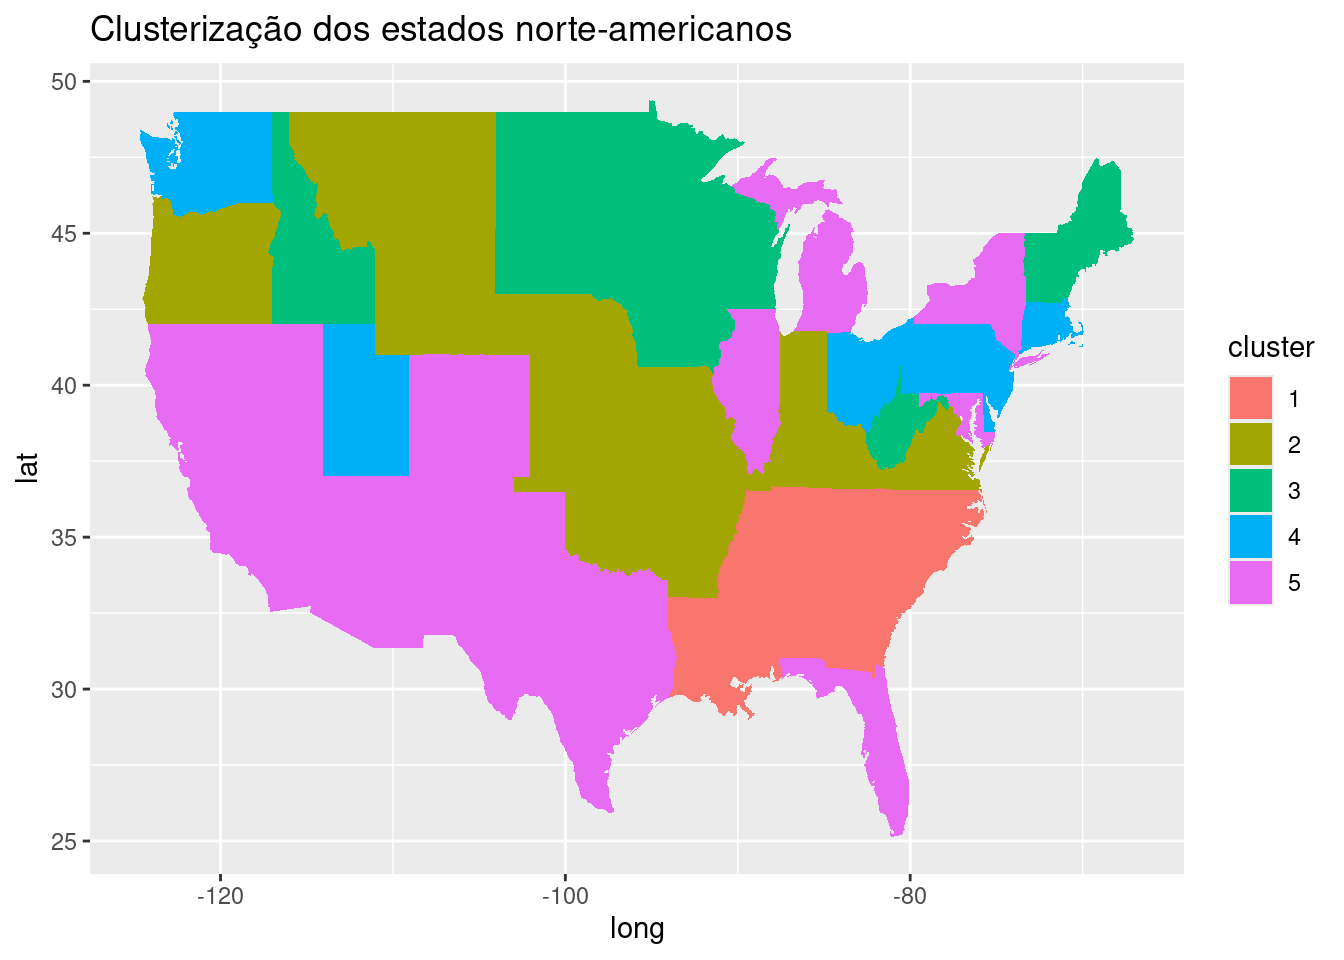
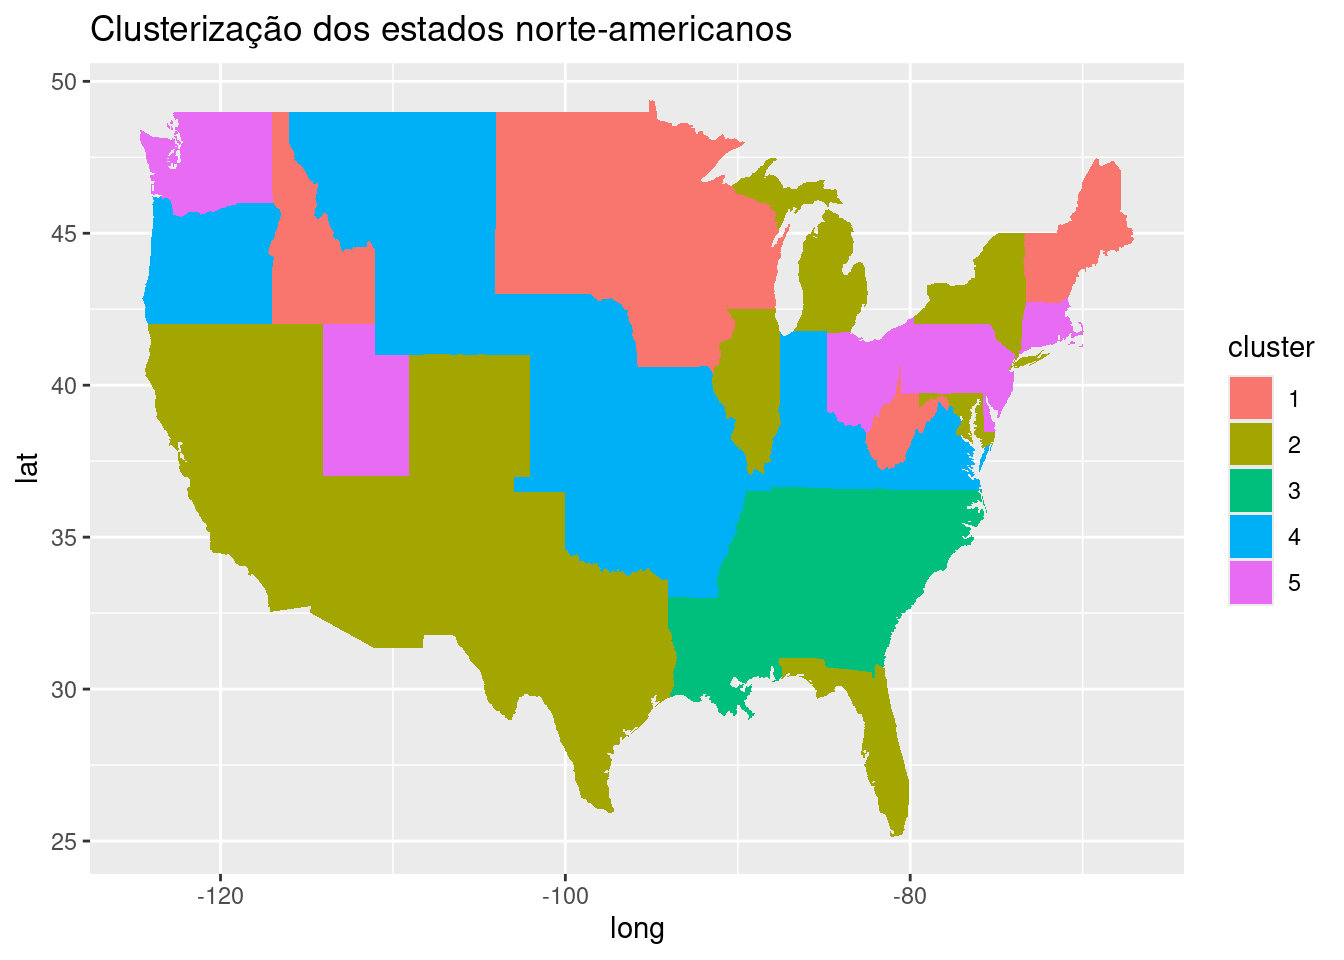
Built site for gh-pages

diff --git a/artigos_fila/clusterizacao/index.html b/artigos_fila/clusterizacao/index.html
@@ -266,25 +266,25 @@ pre > code.sourceCode > span > a:first-child::before { text-decoration: underlin
 <div class="sourceCode cell-code" id="cb3"><pre class="sourceCode r code-with-copy"><code class="sourceCode r"><span id="cb3-1"><a href="#cb3-1" aria-hidden="true" tabindex="-1"></a>clusterizacao<span class="sc">$</span>cluster</span></code><button title="Copy to Clipboard" class="code-copy-button"><i class="bi"></i></button></pre></div>
 <div class="cell-output cell-output-stdout">
 <pre><code>       Alabama         Alaska        Arizona       Arkansas     California 
-             1              5              5              2              5 
+             3              2              2              4              2 
       Colorado    Connecticut       Delaware        Florida        Georgia 
-             5              4              4              5              1 
+             2              5              5              2              3 
         Hawaii          Idaho       Illinois        Indiana           Iowa 
-             4              3              5              2              3 
+             5              1              2              4              1 
         Kansas       Kentucky      Louisiana          Maine       Maryland 
-             2              2              1              3              5 
+             4              4              3              1              2 
  Massachusetts       Michigan      Minnesota    Mississippi       Missouri 
-             4              5              3              1              2 
+             5              2              1              3              4 
        Montana       Nebraska         Nevada  New Hampshire     New Jersey 
-             2              2              5              3              4 
+             4              4              2              1              5 
     New Mexico       New York North Carolina   North Dakota           Ohio 
-             5              5              1              3              4 
+             2              2              3              1              5 
       Oklahoma         Oregon   Pennsylvania   Rhode Island South Carolina 
-             2              2              4              4              1 
+             4              4              5              5              3 
   South Dakota      Tennessee          Texas           Utah        Vermont 
-             3              1              5              4              3 
+             1              3              2              5              1 
       Virginia     Washington  West Virginia      Wisconsin        Wyoming 
-             2              4              3              3              2 </code></pre>
+             4              5              1              1              4 </code></pre>
 </div>
 </div>
 <p>Agora que conseguimos agrupar os estados, criaremos uma coluna em nosso <em>dataframe</em> chamada <em>cluster</em> contendo a classificação de cada observação. Também usaremos a função <em>as.factor()</em> para transformar o vetor em um fator, ou seja, em um dado categórico.</p>
@@ -301,31 +301,31 @@ pre > code.sourceCode > span > a:first-child::before { text-decoration: underlin
 <span id="cb6-6"><a href="#cb6-6" aria-hidden="true" tabindex="-1"></a></span>
 <span id="cb6-7"><a href="#cb6-7" aria-hidden="true" tabindex="-1"></a><span class="fu">rownames</span>(cluster1)</span></code><button title="Copy to Clipboard" class="code-copy-button"><i class="bi"></i></button></pre></div>
 <div class="cell-output cell-output-stdout">
-<pre><code>[1] "Alabama"        "Georgia"        "Louisiana"      "Mississippi"   
-[5] "North Carolina" "South Carolina" "Tennessee"     </code></pre>
-</div>
-<div class="sourceCode cell-code" id="cb8"><pre class="sourceCode r code-with-copy"><code class="sourceCode r"><span id="cb8-1"><a href="#cb8-1" aria-hidden="true" tabindex="-1"></a><span class="fu">rownames</span>(cluster2)</span></code><button title="Copy to Clipboard" class="code-copy-button"><i class="bi"></i></button></pre></div>
-<div class="cell-output cell-output-stdout">
-<pre><code> [1] "Arkansas" "Indiana"  "Kansas"   "Kentucky" "Missouri" "Montana" 
- [7] "Nebraska" "Oklahoma" "Oregon"   "Virginia" "Wyoming" </code></pre>
-</div>
-<div class="sourceCode cell-code" id="cb10"><pre class="sourceCode r code-with-copy"><code class="sourceCode r"><span id="cb10-1"><a href="#cb10-1" aria-hidden="true" tabindex="-1"></a><span class="fu">rownames</span>(cluster3)</span></code><button title="Copy to Clipboard" class="code-copy-button"><i class="bi"></i></button></pre></div>
-<div class="cell-output cell-output-stdout">
 <pre><code> [1] "Idaho"         "Iowa"          "Maine"         "Minnesota"    
  [5] "New Hampshire" "North Dakota"  "South Dakota"  "Vermont"      
  [9] "West Virginia" "Wisconsin"    </code></pre>
 </div>
-<div class="sourceCode cell-code" id="cb12"><pre class="sourceCode r code-with-copy"><code class="sourceCode r"><span id="cb12-1"><a href="#cb12-1" aria-hidden="true" tabindex="-1"></a><span class="fu">rownames</span>(cluster4)</span></code><button title="Copy to Clipboard" class="code-copy-button"><i class="bi"></i></button></pre></div>
-<div class="cell-output cell-output-stdout">
-<pre><code> [1] "Connecticut"   "Delaware"      "Hawaii"        "Massachusetts"
- [5] "New Jersey"    "Ohio"          "Pennsylvania"  "Rhode Island" 
- [9] "Utah"          "Washington"   </code></pre>
-</div>
-<div class="sourceCode cell-code" id="cb14"><pre class="sourceCode r code-with-copy"><code class="sourceCode r"><span id="cb14-1"><a href="#cb14-1" aria-hidden="true" tabindex="-1"></a><span class="fu">rownames</span>(cluster5)</span></code><button title="Copy to Clipboard" class="code-copy-button"><i class="bi"></i></button></pre></div>
+<div class="sourceCode cell-code" id="cb8"><pre class="sourceCode r code-with-copy"><code class="sourceCode r"><span id="cb8-1"><a href="#cb8-1" aria-hidden="true" tabindex="-1"></a><span class="fu">rownames</span>(cluster2)</span></code><button title="Copy to Clipboard" class="code-copy-button"><i class="bi"></i></button></pre></div>
 <div class="cell-output cell-output-stdout">
 <pre><code> [1] "Alaska"     "Arizona"    "California" "Colorado"   "Florida"   
  [6] "Illinois"   "Maryland"   "Michigan"   "Nevada"     "New Mexico"
 [11] "New York"   "Texas"     </code></pre>
+</div>
+<div class="sourceCode cell-code" id="cb10"><pre class="sourceCode r code-with-copy"><code class="sourceCode r"><span id="cb10-1"><a href="#cb10-1" aria-hidden="true" tabindex="-1"></a><span class="fu">rownames</span>(cluster3)</span></code><button title="Copy to Clipboard" class="code-copy-button"><i class="bi"></i></button></pre></div>
+<div class="cell-output cell-output-stdout">
+<pre><code>[1] "Alabama"        "Georgia"        "Louisiana"      "Mississippi"   
+[5] "North Carolina" "South Carolina" "Tennessee"     </code></pre>
+</div>
+<div class="sourceCode cell-code" id="cb12"><pre class="sourceCode r code-with-copy"><code class="sourceCode r"><span id="cb12-1"><a href="#cb12-1" aria-hidden="true" tabindex="-1"></a><span class="fu">rownames</span>(cluster4)</span></code><button title="Copy to Clipboard" class="code-copy-button"><i class="bi"></i></button></pre></div>
+<div class="cell-output cell-output-stdout">
+<pre><code> [1] "Arkansas" "Indiana"  "Kansas"   "Kentucky" "Missouri" "Montana" 
+ [7] "Nebraska" "Oklahoma" "Oregon"   "Virginia" "Wyoming" </code></pre>
+</div>
+<div class="sourceCode cell-code" id="cb14"><pre class="sourceCode r code-with-copy"><code class="sourceCode r"><span id="cb14-1"><a href="#cb14-1" aria-hidden="true" tabindex="-1"></a><span class="fu">rownames</span>(cluster5)</span></code><button title="Copy to Clipboard" class="code-copy-button"><i class="bi"></i></button></pre></div>
+<div class="cell-output cell-output-stdout">
+<pre><code> [1] "Connecticut"   "Delaware"      "Hawaii"        "Massachusetts"
+ [5] "New Jersey"    "Ohio"          "Pennsylvania"  "Rhode Island" 
+ [9] "Utah"          "Washington"   </code></pre>
 </div>
 </div>
 <p>Agora que sabemos a qual grupo pertence cada estado, podemos começar a pensar em alguns questionamentos interessantes. Além das taxas de prisões, o que será que esses estados agrupados no mesmo <em>cluster</em> possuem em comum? Será que são estados geograficamente próximos uns dos outros? Será que dividem semelhanças em aspectos socioeconômicos ou no contexto histórico?</p>

diff --git a/artigos.html b/artigos.html
@@ -224,7 +224,7 @@ window.Quarto = {
 
 <div class="quarto-listing quarto-listing-container-default" id="listing-listing">
 <div class="list quarto-listing-default">
-<div class="quarto-post image-right" data-index="0" data-categories="segurança" data-listing-date-sort="1722816000000" data-listing-file-modified-sort="1730699084938" data-listing-date-modified-sort="NaN" data-listing-reading-time-sort="4" data-listing-word-count-sort="612">
+<div class="quarto-post image-right" data-index="0" data-categories="segurança" data-listing-date-sort="1722816000000" data-listing-file-modified-sort="1730700279496" data-listing-date-modified-sort="NaN" data-listing-reading-time-sort="4" data-listing-word-count-sort="612">
 <div class="thumbnail">
 <p><a href="./artigos/roubos-uberlandia/index.html" class="no-external"></a></p><a href="./artigos/roubos-uberlandia/index.html" class="no-external">
 <p><img loading="lazy" src="./artigos/roubos-uberlandia/capa.jpg" class="thumbnail-image"></p>
@@ -257,7 +257,7 @@ Bruno de Souza Melo
 </a>
 </div>
 </div>
-<div class="quarto-post image-right" data-index="1" data-categories="modelos,knn" data-listing-date-sort="1721347200000" data-listing-file-modified-sort="1730699084938" data-listing-date-modified-sort="NaN" data-listing-reading-time-sort="4" data-listing-word-count-sort="730">
+<div class="quarto-post image-right" data-index="1" data-categories="modelos,knn" data-listing-date-sort="1721347200000" data-listing-file-modified-sort="1730700279496" data-listing-date-modified-sort="NaN" data-listing-reading-time-sort="4" data-listing-word-count-sort="730">
 <div class="thumbnail">
 <p><a href="./artigos/knn/index.html" class="no-external"></a></p><a href="./artigos/knn/index.html" class="no-external">
 <p><img loading="lazy" src="./artigos/knn/capa.jpeg" class="thumbnail-image"></p>
@@ -293,7 +293,7 @@ Raiane Rosseti
 </a>
 </div>
 </div>
-<div class="quarto-post image-right" data-index="2" data-categories="teste de hipóteses" data-listing-date-sort="1721347200000" data-listing-file-modified-sort="1730699084938" data-listing-date-modified-sort="NaN" data-listing-reading-time-sort="7" data-listing-word-count-sort="1245">
+<div class="quarto-post image-right" data-index="2" data-categories="teste de hipóteses" data-listing-date-sort="1721347200000" data-listing-file-modified-sort="1730700279496" data-listing-date-modified-sort="NaN" data-listing-reading-time-sort="7" data-listing-word-count-sort="1245">
 <div class="thumbnail">
 <p><a href="./artigos/teste-hipoteses/index.html" class="no-external"></a></p><a href="./artigos/teste-hipoteses/index.html" class="no-external">
 <p><img loading="lazy" src="./artigos/teste-hipoteses/capa.jpeg" class="thumbnail-image"></p>
@@ -326,7 +326,7 @@ Gabriel Moreira
 </a>
 </div>
 </div>
-<div class="quarto-post image-right" data-index="3" data-categories="esporte,basquete" data-listing-date-sort="1720742400000" data-listing-file-modified-sort="1730699084926" data-listing-date-modified-sort="NaN" data-listing-reading-time-sort="5" data-listing-word-count-sort="832">
+<div class="quarto-post image-right" data-index="3" data-categories="esporte,basquete" data-listing-date-sort="1720742400000" data-listing-file-modified-sort="1730700279484" data-listing-date-modified-sort="NaN" data-listing-reading-time-sort="5" data-listing-word-count-sort="832">
 <div class="thumbnail">
 <p><a href="./artigos/basquete/index.html" class="no-external"></a></p><a href="./artigos/basquete/index.html" class="no-external">
 <p><img loading="lazy" src="./artigos/basquete/capa.jpg" class="thumbnail-image"></p>
@@ -362,7 +362,7 @@ Gabriel Assis Godrim
 </a>
 </div>
 </div>
-<div class="quarto-post image-right" data-index="4" data-categories="modelos de recomendação" data-listing-date-sort="1720137600000" data-listing-file-modified-sort="1730699084938" data-listing-date-modified-sort="NaN" data-listing-reading-time-sort="2" data-listing-word-count-sort="393">
+<div class="quarto-post image-right" data-index="4" data-categories="modelos de recomendação" data-listing-date-sort="1720137600000" data-listing-file-modified-sort="1730700279496" data-listing-date-modified-sort="NaN" data-listing-reading-time-sort="2" data-listing-word-count-sort="393">
 <div class="thumbnail">
 <p><a href="./artigos/modelos-recomendacao/index.html" class="no-external"></a></p><a href="./artigos/modelos-recomendacao/index.html" class="no-external">
 <p><img loading="lazy" src="./artigos/modelos-recomendacao/capa.jpg" class="thumbnail-image"></p>
@@ -395,7 +395,7 @@ Victor Borin
 </a>
 </div>
 </div>
-<div class="quarto-post image-right" data-index="5" data-categories="gráficos" data-listing-date-sort="1717718400000" data-listing-file-modified-sort="1730699084938" data-listing-date-modified-sort="NaN" data-listing-reading-time-sort="7" data-listing-word-count-sort="1240">
+<div class="quarto-post image-right" data-index="5" data-categories="gráficos" data-listing-date-sort="1717718400000" data-listing-file-modified-sort="1730700279496" data-listing-date-modified-sort="NaN" data-listing-reading-time-sort="7" data-listing-word-count-sort="1240">
 <div class="thumbnail">
 <p><a href="./artigos/mapas-calor/index.html" class="no-external"></a></p><a href="./artigos/mapas-calor/index.html" class="no-external">
 <p><img loading="lazy" src="./artigos/mapas-calor/capa2.jpg" class="thumbnail-image"></p>
@@ -428,7 +428,7 @@ Maria Cecília Macedo
 </a>
 </div>
 </div>
-<div class="quarto-post image-right" data-index="6" data-categories="medidas de dispersão,estatística,futebol,análise de desempenho" data-listing-date-sort="1717113600000" data-listing-file-modified-sort="1730699084926" data-listing-date-modified-sort="NaN" data-listing-reading-time-sort="4" data-listing-word-count-sort="783">
+<div class="quarto-post image-right" data-index="6" data-categories="medidas de dispersão,estatística,futebol,análise de desempenho" data-listing-date-sort="1717113600000" data-listing-file-modified-sort="1730700279484" data-listing-date-modified-sort="NaN" data-listing-reading-time-sort="4" data-listing-word-count-sort="783">
 <div class="thumbnail">
 <p><a href="./artigos/cv/index.html" class="no-external"></a></p><a href="./artigos/cv/index.html" class="no-external">
 <p><img loading="lazy" src="./artigos/cv/logo.jpg" class="thumbnail-image"></p>

diff --git a/index.html b/index.html
@@ -7,7 +7,7 @@
 <meta name="viewport" content="width=device-width, initial-scale=1.0, user-scalable=yes">
 
 
-<title>quarto-input377c920c69b40af3 – PET Estatística</title>
+<title>Home – PET Estatística</title>
 <style>
 code{white-space: pre-wrap;}
 span.smallcaps{font-variant: small-caps;}
@@ -141,7 +141,13 @@ ul.task-list li input[type="checkbox"] {
 <div class="quarto-about-jolla">
   <img src="logo.jpg" class="about-image
   rounded " style="width: 15em;">
- <div id="pf-heading">
+ <header id="title-block-header" class="quarto-title-block default">
+<div class="quarto-title">
+<h1 class="title">Home</h1>
+</div>
+<div class="quarto-title-meta">
+  </div>
+</header><div id="pf-heading">
 <p>Olá! Esta é a página do PET Estatística. Aqui você encontra informações sobre nosso grupo e sobre as atividades que desenvolvemos. Na seção <a href="./integrantes/index.html">Integrantes</a> você encontra informações sobre os petianos e o tutor do grupo. Em <a href="./artigos.html">Artigos</a>, você encontrará textos sobre o universo da Estatística; os textos são produzidos por nós e toda semana tem artigo novo! Detalhes sobre o curso de Estatística da UFU estão disponíveis em <a href="./curso.html">O Curso</a>. Por fim, a seção <a href="./sobre-pet.html">Sobre o PET</a> contém informações sobre o Programa de Educação Tutorial.</p>
 </div> 
   <hr class="about-sep">
